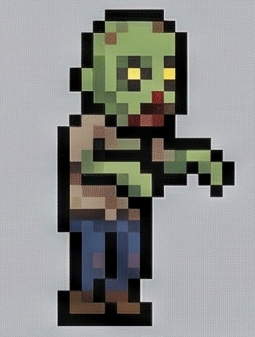
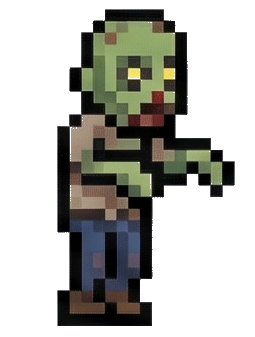
Fix: permanently removed zombie background in asset to solve local file:// CORS issues

diff --git a/game.js b/game.js
@@ -113,39 +113,9 @@ function buildZombieSprite() {
     const img = new Image();
     img.src = 'zombie.png';
     img.onload = () => {
-        try {
-            // Determine the background color to remove: (176, 177, 181)
-            const tempCanvas = document.createElement('canvas');
-            tempCanvas.width = img.width;
-            tempCanvas.height = img.height;
-            const tempCtx = tempCanvas.getContext('2d');
-            tempCtx.drawImage(img, 0, 0);
-
-            const imageData = tempCtx.getImageData(0, 0, img.width, img.height);
-            const data = imageData.data;
-
-            // Iterate through pixels to remove the background color
-            for (let i = 0; i < data.length; i += 4) {
-                const r = data[i];
-                const g = data[i + 1];
-                const b = data[i + 2];
-
-                // Check if pixel matches the background (light grey/white checkerboard pattern)
-                // Analysis showed background B > 170, while Zombie B < 140.
-                // Using > 150 as a safe threshold for all channels to target light greys.
-                if (r > 150 && g > 150 && b > 150) {
-                    data[i + 3] = 0; // Set alpha to 0 (transparent)
-                }
-            }
-
-            tempCtx.putImageData(imageData, 0, 0);
-            zombieSprite = tempCanvas;
-        } catch (e) {
-            // If running locally (file://), getImageData throws SecurityError.
-            // Fallback to using the raw image.
-            console.warn("Transparency processing failed (CORS/file://). Using raw image.");
-            zombieSprite = img;
-        }
+        // Image is now pre-processed (transparent PNG)
+        // No runtime manipulation needed, preventing CORS/SecurityError on local files.
+        zombieSprite = img;
     };
 }
 
